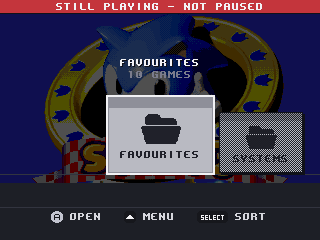
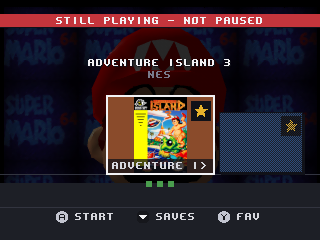
docs: the README leads with what it does, illustrated from the device
Every picture is a capture from the DE10-Nano over its analog output - 320x240, what the
thing actually looks like on a CRT rather than a mockup or a harness render. The harness
renders stay in GUIDE.md and are labelled as such there.

Covers the features that had no illustration at all: the pause and which cores it works on,
the core-options screen with two different cores side by side so it is visible that the list
is the running core's, the contextual menu-bar entry, Core Settings reaching the classic OSD,
and all four button-glyph sets.

The "running on hardware" note now points at the release changelogs for the specific faults
rather than listing two of them forever, and says the thing worth saying instead: the ones
that recurred all came from leaning on a shared firmware mechanism that did not mean what
its name suggested - a flag this code sets itself, a state briefly true for another reason,
a key consumed before the intended reader sees it. None of those are visible to the harness.

diff --git a/support/classicui/README.md b/support/classicui/README.md
@@ -5,14 +5,134 @@ Design rationale: `docs/CLASSIC_UI_PLAN.md`.
 
 Enable with `classicui=1` in `MiSTer.ini`. Default is off.
 
-**Running on hardware.** Brought up on a DE10-Nano against both a 15 kHz CRT over
-the analog board and an HDMI display: the shelf, launching, save states, the
-in-game menu, controllers, Wi-Fi and the settings screens all work there. Two
-faults that only a real machine could show up are fixed and worth knowing about -
-a per-frame diagnostic that filled `/tmp`, and a Wi-Fi adapter cached as absent
-because the front-end asked before the USB driver had created the interface.
+**Running on hardware.** Brought up on a DE10-Nano against both a 15 kHz CRT over the
+analog board and an HDMI display: the shelf, launching, save states, the in-game menu, core
+options, controllers, Wi-Fi and the settings screens all work there, and the pause was
+confirmed core by core on the television.
+
+Faults that only a real machine could show are listed in the changelog of each release.
+The pattern worth knowing, because it recurred: several came from using a shared firmware
+mechanism whose behaviour differed from what its name suggested - a flag this code sets
+itself, a state that is briefly true for another reason, a key consumed before the intended
+reader sees it. The harness cannot see any of those.
 
 For what it looks like and how to install it, see [GUIDE.md](GUIDE.md).
+
+## What it does
+
+Every picture below is a capture from a real DE10-Nano, taken over its analog output to a
+CRT — so they are 320×240 and they are what the thing actually looks like, not a mockup or
+a harness render. The harness renders live in [GUIDE.md](GUIDE.md); these do not.
+
+### A shelf of your games
+
+![The shelf](docs/img/device/shelf.png)
+![The shelf with cover art](docs/img/device/shelf-cover.png)
+
+Cover art, the system, and how many times you have played each game. Left and right walk the
+shelf; the shoulder buttons page it. The row begins with **Favourites** and **Systems**, and
+**B** from anywhere jumps back to them rather than making you walk.
+
+Art is found locally under `games/<System>/boxart/`, or downloaded on demand with
+`classicui_artfetch=1`. The library is indexed once and cached — 1430 items on the test
+machine — so later boots start instantly.
+
+### Browsing by system
+
+![Systems](docs/img/device/systems.png)
+
+Every system has an icon, from licensed sets rather than hand-drawn — see
+[ICONS.md](ICONS.md) for attribution.
+
+### Suspend points: save states you can see
+
+![Empty suspend points](docs/img/device/suspend-empty.png)
+![A saved suspend point](docs/img/device/suspend-saved.png)
+
+Press **down** on a game for its save states, each with a picture of the moment it holds —
+captured from the frame you were looking at when you opened the menu. **A** plays from that
+point, **Y** saves, **X** deletes (twice, deliberately), **down** locks a slot.
+
+The number of slots follows what the core actually offers, and the last one is reserved to
+hold the game still, so it is never shown as yours.
+
+### The whole front-end, from inside a game
+
+![A game running](docs/img/device/game.png)
+
+Press the menu button while playing and the entire front-end comes up over a still of your
+game — shelf, suspend points, settings, everything. The classic OSD never appears on its own.
+
+### The game is genuinely paused
+
+On a core that can pause, it is paused — not merely covered. MiSTer has no pause command:
+the signal cores pause on is derived from whether the classic OSD is open, which is exactly
+what this front-end replaces. It holds that signal asserted without drawing the OSD, so
+**NES, Game Boy, GBA, Mega Drive and PSX all stop** while the menu is up. Verified on
+hardware, core by core.
+
+Cores with no pause at all — SNES, Master System, TurboGrafx-16, N64, Neo Geo — are held
+still with a save state instead, and `classicui_freeze=0` opts out of that.
+
+![Still playing](docs/img/device/still-playing.png)
+
+And where a core can do neither, it says so, rather than leaving you to notice.
+
+### The core's own settings, in our UI
+
+![Core options on Game Boy](docs/img/device/core-options-gb.png)
+![Core options on SNES](docs/img/device/core-options-snes.png)
+
+The menu bar grows an entry named after the running system — `NES`, `SNES`, `GB`, `PSX` —
+which appears only while a core is loaded and only if that core published something worth
+offering. It reads the core's own CONF_STR, so the list is that core's and nothing else:
+Game Boy offers Super Game Boy and its palettes, SNES offers vertical crop and pseudo
+transparency, N64 offers its whole VI filter chain including deblur and antialias.
+
+Three pages. **Picture** first, because that is why anyone opens it. **System & Sound**
+second. **Risky** last — and an option lands there automatically when the core marks its own
+values unsafe, as PSX does with `(U) = unsafe -> can crash`.
+
+Changes apply at once and are kept in the same `<CORE>.CFG` the classic OSD writes.
+
+### Options, and the classic menu when you want it
+
+![Options](docs/img/device/options.png)
+![Options in a game](docs/img/device/options-ingame.png)
+
+**Best Settings** turns off the pop-ups that interrupt a game, showing exactly which lines
+of `MiSTer.ini` it will change and keeping a backup. **More Settings** edits the ini options
+worth editing, in words a person can read, with anything away from its usual value in amber.
+
+**Core Settings** hands the screen to the classic OSD for everything we deliberately do not
+duplicate. While it is up the menu button belongs to it, so you can always get back.
+
+### Controllers
+
+![Controllers](docs/img/device/controllers.png)
+![Controller test](docs/img/device/controller-test.png)
+
+Every controller the machine can see — USB, Bluetooth and SNAC — with its player number.
+Pairing is at the bottom of the list. Choose one to test it: press a button and it lights up
+on a diagram drawn in that pad's own button set.
+
+### Buttons look like the pad in your hands
+
+| PlayStation | Nintendo |
+|---|---|
+| ![PlayStation legend](docs/img/device/legend-psx.png) | ![Nintendo legend](docs/img/device/legend-nintendo.png) |
+
+| Xbox | Keyboard |
+|---|---|
+| ![Xbox legend](docs/img/device/legend-xbox.png) | ![Keyboard legend](docs/img/device/legend-keyboard.png) |
+
+Four sets, thirteen glyphs, drawn at twelve pixels square. The *position* belongs to the
+action, so the letter drawn is whatever is printed on your pad: the button that confirms is
+the east one, which Nintendo calls **A** and Xbox calls **B**. The set is chosen from the
+pad's USB vendor id first and its name second, which is what makes a DualShock 4 announcing
+itself as "Wireless Controller" over Bluetooth still get PlayStation shapes.
+
+---
 
 ## Shape
 
